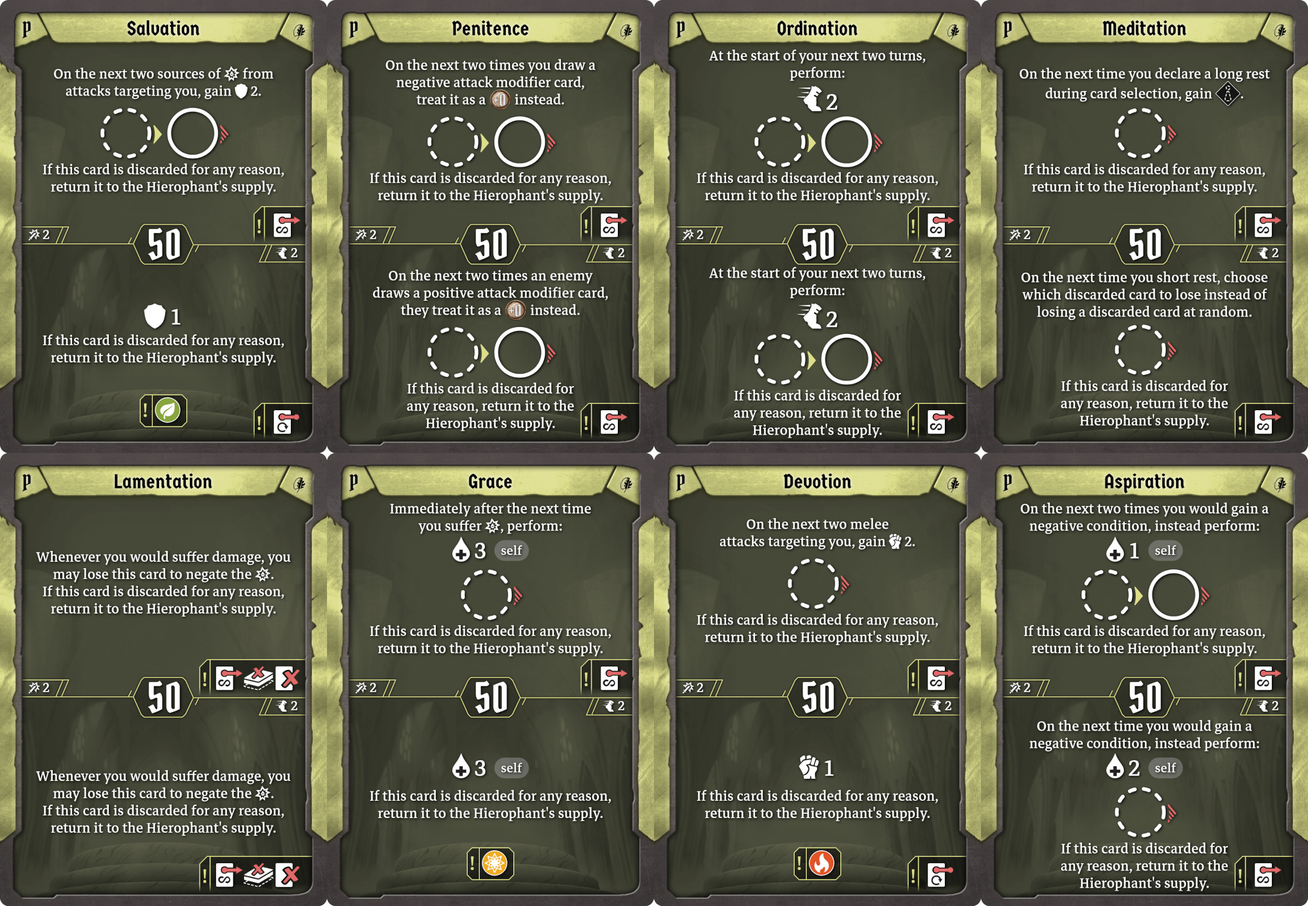
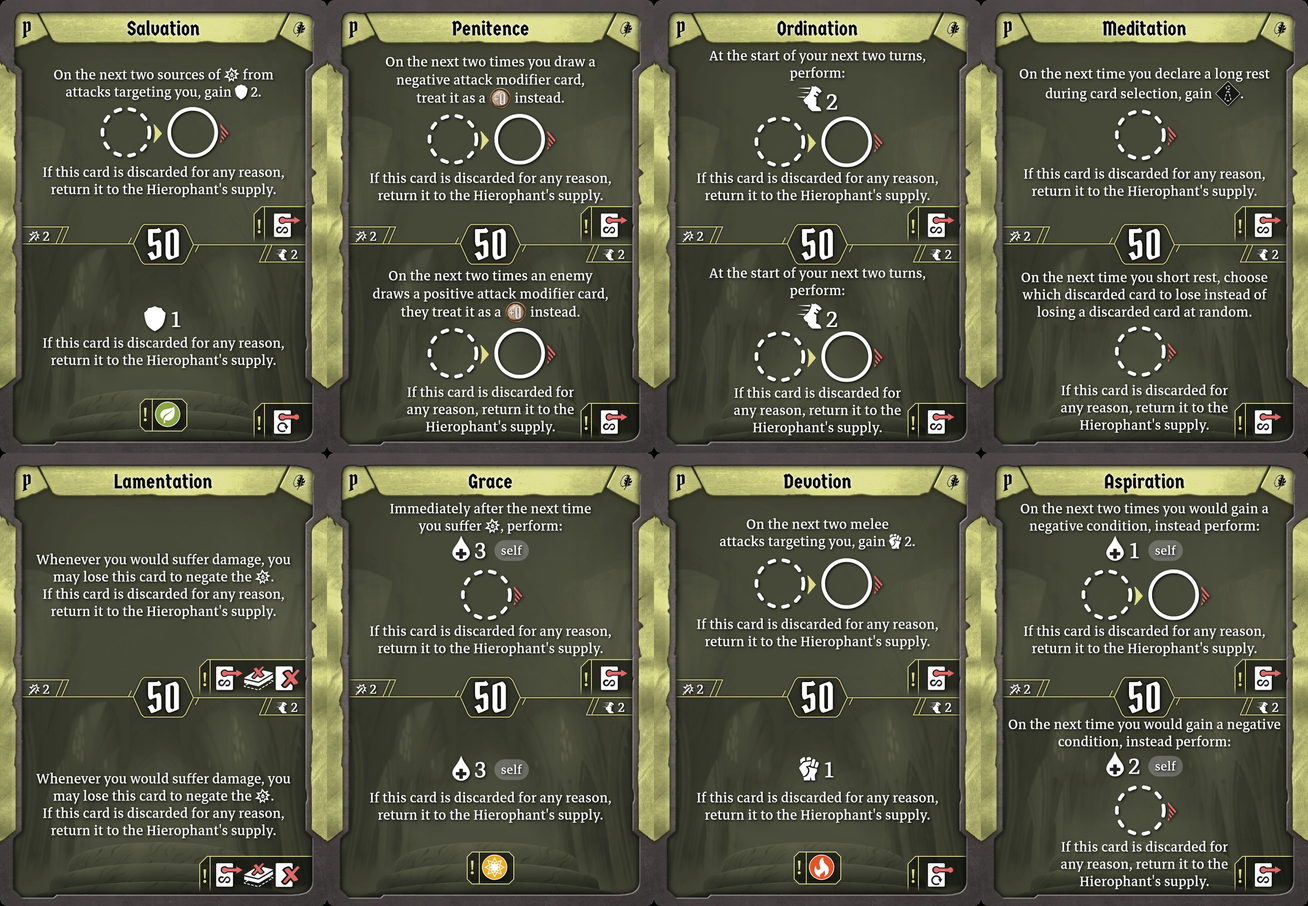
Fix more slots (#78)
* Prayer slots

* New spreads and fix more slots

---------

diff --git a/Game/Content/Classes/Hierophant/Cards/Prayers/05_Ordination.cs b/Game/Content/Classes/Hierophant/Cards/Prayers/05_Ordination.cs
@@ -35,8 +35,8 @@ public class Ordination : HierophantPrayerCardModel<Ordination.CardTop, Ordinati
 				)
 				.WithUseSlots(
 					[
-						new UseSlot(new Vector2(0.398f, 0.306f)),
-						new UseSlot(new Vector2(0.603f, 0.306f))
+						new UseSlot(new Vector2(0.38550016f, 0.3134999f)),
+						new UseSlot(new Vector2(0.5900029f, 0.3134999f))
 					]
 				)
 				.Build())
@@ -73,8 +73,8 @@ public class Ordination : HierophantPrayerCardModel<Ordination.CardTop, Ordinati
 				)
 				.WithUseSlots(
 					[
-						new UseSlot(new Vector2(0.398f, 0.772f)),
-						new UseSlot(new Vector2(0.603f, 0.772f))
+						new UseSlot(new Vector2(0.38550016f, 0.7865109f)),
+						new UseSlot(new Vector2(0.5900029f, 0.7865109f))
 					]
 				)
 				.Build())

diff --git a/Game/Content/Classes/Hierophant/Cards/Prayers/06_Penitence.cs b/Game/Content/Classes/Hierophant/Cards/Prayers/06_Penitence.cs
@@ -38,8 +38,8 @@ public class Penitence : HierophantPrayerCardModel<Penitence.CardTop, Penitence.
 				)
 				.WithUseSlots(
 					[
-						new UseSlot(new Vector2(0.398f, 0.306f)),
-						new UseSlot(new Vector2(0.603f, 0.306f))
+						new UseSlot(new Vector2(0.38450018f, 0.3065f)),
+						new UseSlot(new Vector2(0.5899994f, 0.3065f))
 					]
 				)
 				.Build())
@@ -79,8 +79,8 @@ public class Penitence : HierophantPrayerCardModel<Penitence.CardTop, Penitence.
 				)
 				.WithUseSlots(
 					[
-						new UseSlot(new Vector2(0.398f, 0.772f)),
-						new UseSlot(new Vector2(0.603f, 0.772f))
+						new UseSlot(new Vector2(0.38450018f, 0.7780105f)),
+						new UseSlot(new Vector2(0.5899994f, 0.7780105f))
 					]
 				)
 				.Build())

diff --git a/Game/Content/Classes/Hierophant/Cards/Prayers/00_Aspiration.cs b/Game/Content/Classes/Hierophant/Cards/Prayers/00_Aspiration.cs
@@ -42,8 +42,8 @@ public class Aspiration : HierophantPrayerCardModel<Aspiration.CardTop, Aspirati
 				)
 				.WithUseSlots(
 					[
-						new UseSlot(new Vector2(0.398f, 0.314f)),
-						new UseSlot(new Vector2(0.603f, 0.314f))
+						new UseSlot(new Vector2(0.38150153f, 0.3129901f)),
+						new UseSlot(new Vector2(0.58650404f, 0.3129901f))
 					]
 				)
 				.Build())
@@ -85,7 +85,7 @@ public class Aspiration : HierophantPrayerCardModel<Aspiration.CardTop, Aspirati
 						await GDTask.CompletedTask;
 					}
 				)
-				.WithUseSlot(new UseSlot(new Vector2(0.5f, 0.764f)))
+				.WithUseSlot(new UseSlot(new Vector2(0.4855002f, 0.78900117f)))
 				.Build())
 		];
 

diff --git a/Game/Content/Classes/Hierophant/Cards/Prayers/04_Meditation.cs b/Game/Content/Classes/Hierophant/Cards/Prayers/04_Meditation.cs
@@ -32,7 +32,7 @@ public class Meditation : HierophantPrayerCardModel<Meditation.CardTop, Meditati
 						await GDTask.CompletedTask;
 					}
 				)
-				.WithUseSlot(new UseSlot(new Vector2(0.5f, 0.308f)))
+				.WithUseSlot(new UseSlot(new Vector2(0.48850015f, 0.2990001f)))
 				.Build())
 		];
 
@@ -64,7 +64,7 @@ public class Meditation : HierophantPrayerCardModel<Meditation.CardTop, Meditati
 						await GDTask.CompletedTask;
 					}
 				)
-				.WithUseSlot(new UseSlot(new Vector2(0.5f, 0.764f)))
+				.WithUseSlot(new UseSlot(new Vector2(0.48850015f, 0.7785105f)))
 				.Build())
 		];
 

diff --git a/Game/Content/Classes/Hierophant/Cards/Prayers/07_Salvation.cs b/Game/Content/Classes/Hierophant/Cards/Prayers/07_Salvation.cs
@@ -46,8 +46,8 @@ public class Salvation : HierophantPrayerCardModel<Salvation.CardTop, Salvation.
 				)
 				.WithUseSlots(
 					[
-						new UseSlot(new Vector2(0.398f, 0.296f)),
-						new UseSlot(new Vector2(0.603f, 0.296f))
+						new UseSlot(new Vector2(0.38400018f, 0.29450002f)),
+						new UseSlot(new Vector2(0.58900285f, 0.29450002f))
 					]
 				)
 				.Build())

diff --git a/Game/Content/Classes/Hierophant/Cards/Prayers/01_Devotion.cs b/Game/Content/Classes/Hierophant/Cards/Prayers/01_Devotion.cs
@@ -55,8 +55,8 @@ public class Devotion : HierophantPrayerCardModel<Devotion.CardTop, Devotion.Car
 				)
 				.WithUseSlots(
 					[
-						new UseSlot(new Vector2(0.398f, 0.296f)),
-						new UseSlot(new Vector2(0.603f, 0.296f))
+						new UseSlot(new Vector2(0.3835002f, 0.2875001f)),
+						new UseSlot(new Vector2(0.5855027f, 0.2875001f))
 					]
 				)
 				.Build())

diff --git a/Game/Content/Classes/Hierophant/Cards/Prayers/02_Grace.cs b/Game/Content/Classes/Hierophant/Cards/Prayers/02_Grace.cs
@@ -33,7 +33,7 @@ public class Grace : HierophantPrayerCardModel<Grace.CardTop, Grace.CardBottom>
 						await GDTask.CompletedTask;
 					}
 				)
-				.WithUseSlot(new UseSlot(new Vector2(0.5f, 0.308f)))
+				.WithUseSlot(new UseSlot(new Vector2(0.48700017f, 0.31299993f)))
 				.Build())
 		];
 
